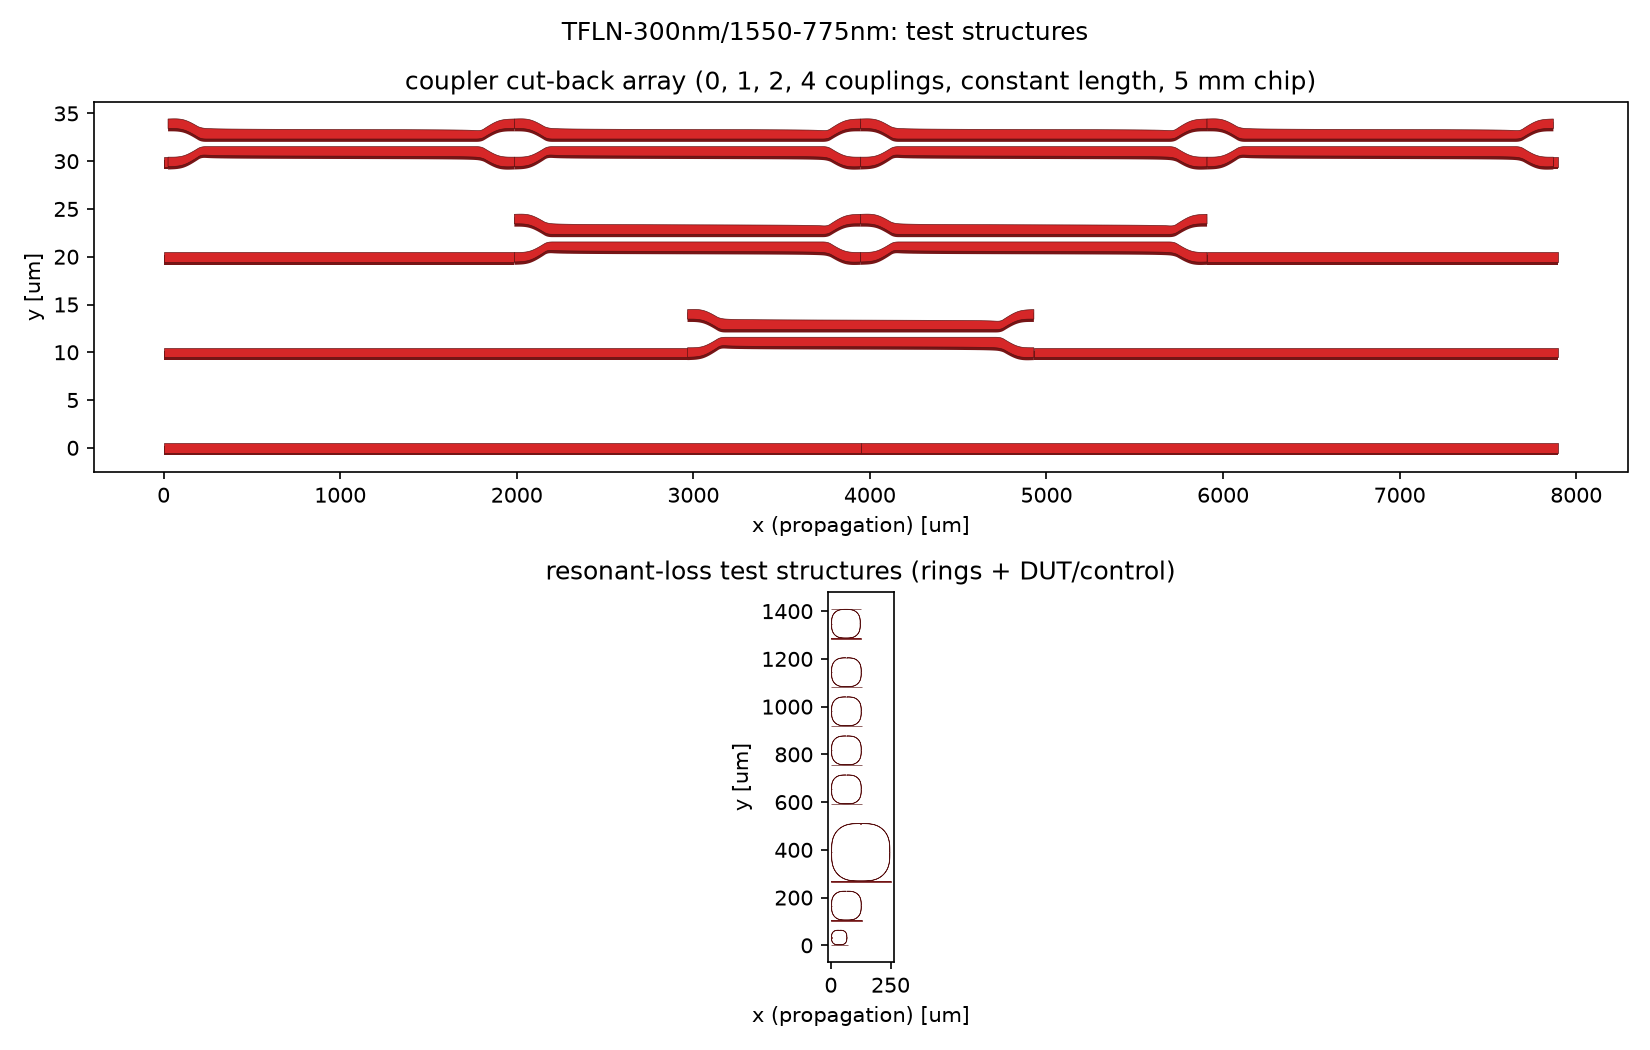
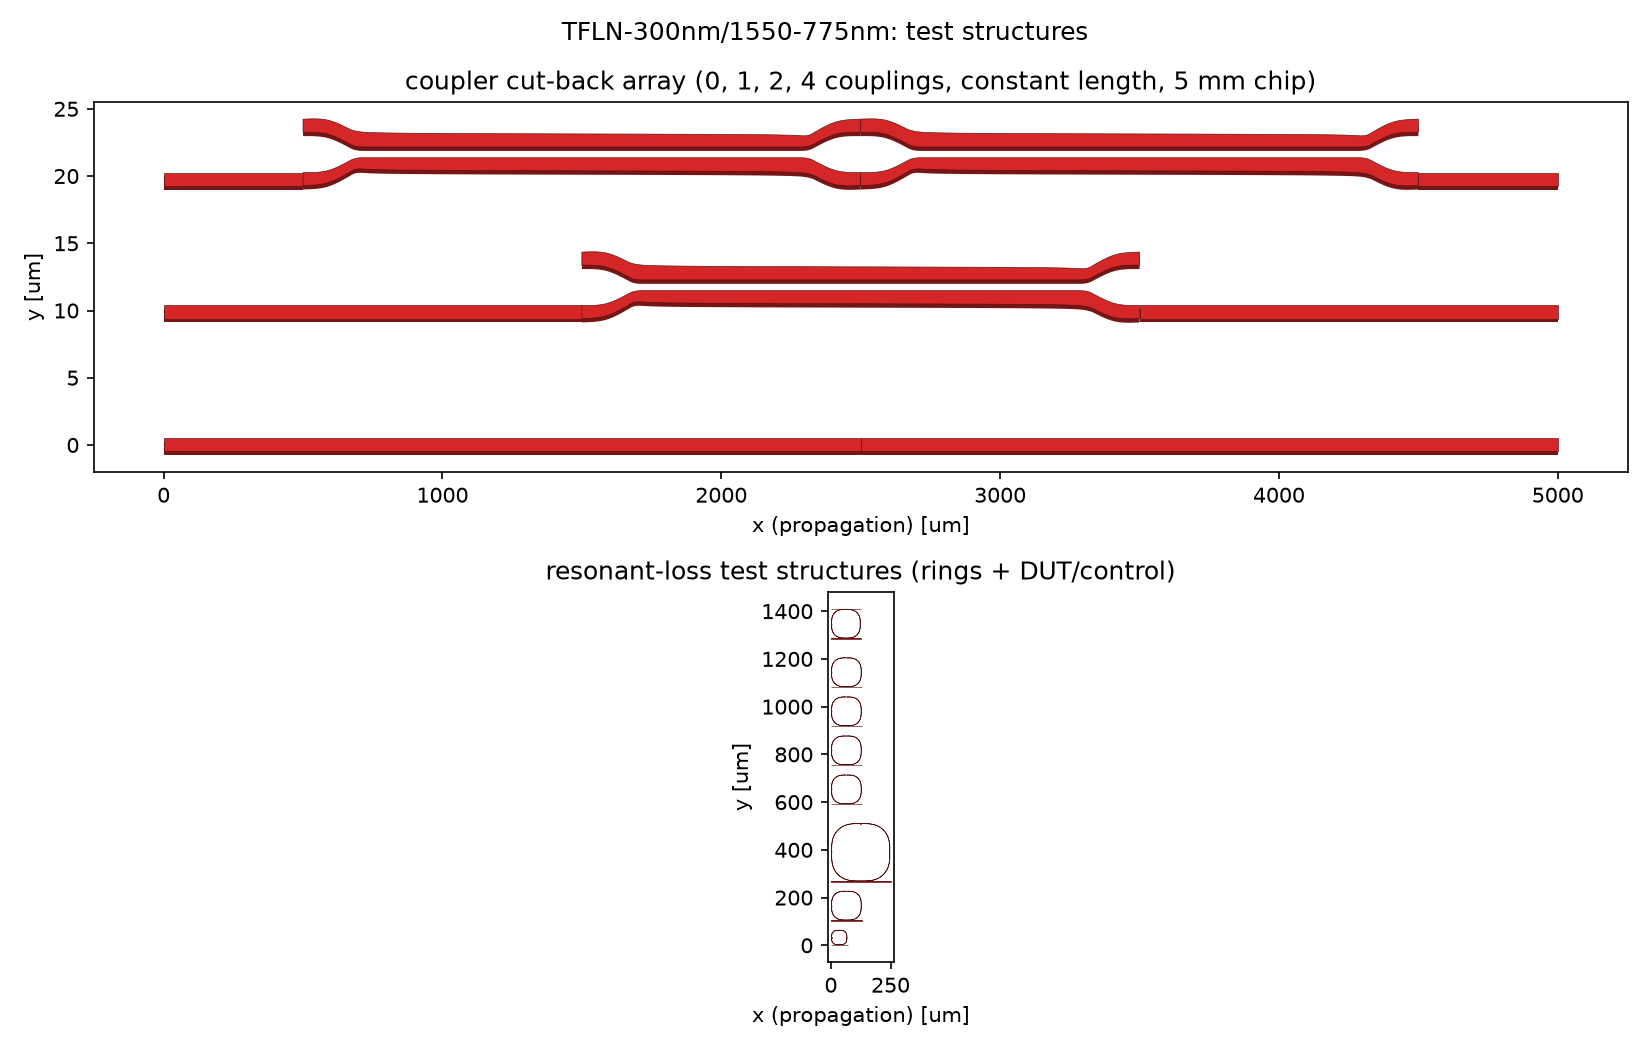
Dichroic designer: spectrum grid + cut-back arrays; keep cut-back on the chip
Run dichroic_designer with the new helpers: a column grid of every cutoff
design's broad-band short/long-pass spectrum (shared axis, cutoff dashed) and a
per-design coupler cut-back array. Fix coupler_cutback_array to keep every row
on the chip -- coupler counts that do not fit chip_width are dropped (with a
warning) and a single constant total length (the chip width) is used -- so the
5 mm cut-back is honest for long (e.g. dichroic) couplers; regenerate the
designer test-structure previews.

Claude-Session: https://claude.ai/code/session_01Np7MyaEn2NwBsZ6A6ztxeB

diff --git a/examples/papers/_designer_extras.py b/examples/papers/_designer_extras.py
@@ -226,8 +226,21 @@ def coupler_cutback_array(
         float(coupler.ports[thru_port].center[0])
         - float(coupler.ports[in_port].center[0])
     )
+    # keep every row on the chip: drop coupler counts that do not fit, and use a
+    # single constant total length (the chip width) for the cut-back condition.
+    fit = [n for n in counts if n * span <= chip_width - 20.0]
+    if len(fit) < len(counts):
+        import warnings
+
+        dropped = [n for n in counts if n not in fit]
+        warnings.warn(
+            f"coupler_cutback_array: dropped counts {dropped} (coupler length "
+            f"{span:.0f} um exceeds the {chip_width:.0f} um chip)",
+            stacklevel=2,
+        )
+    counts = tuple(fit)
     if total_length is None:
-        total_length = max(chip_width, max(counts) * span + 50.0)
+        total_length = chip_width
     c = gf.Component()
     for i, n in enumerate(counts):
         row = c << coupler_cutback(